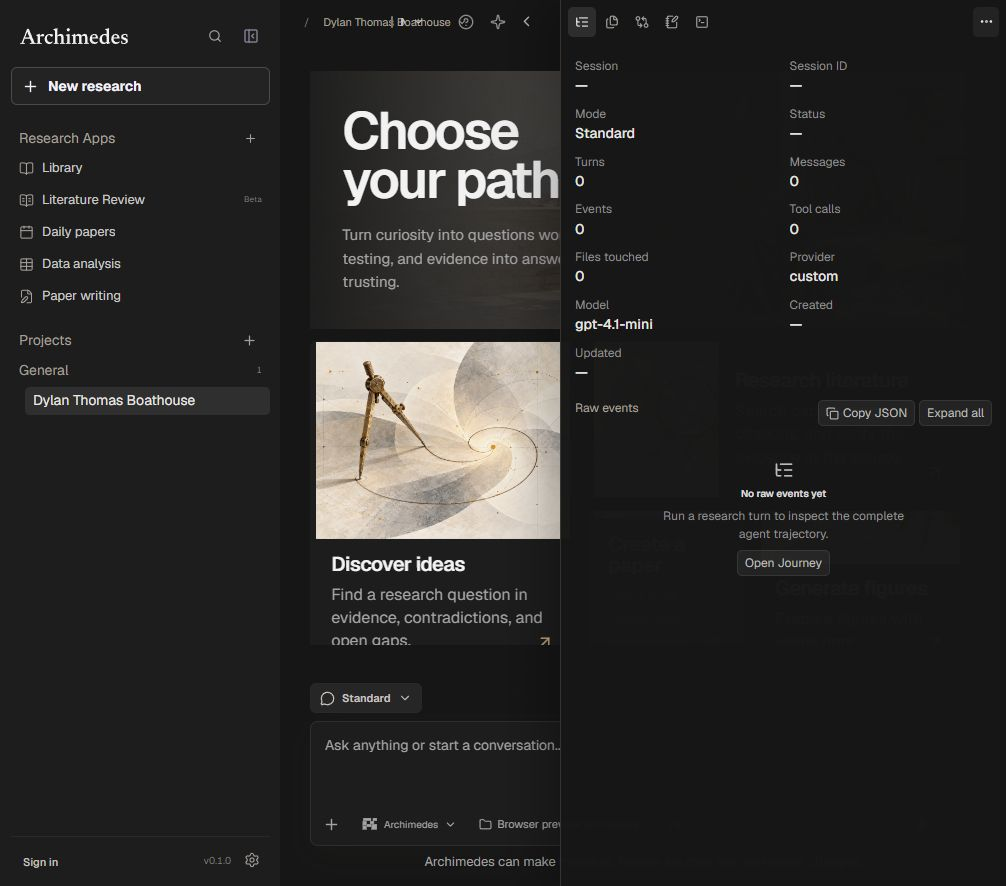
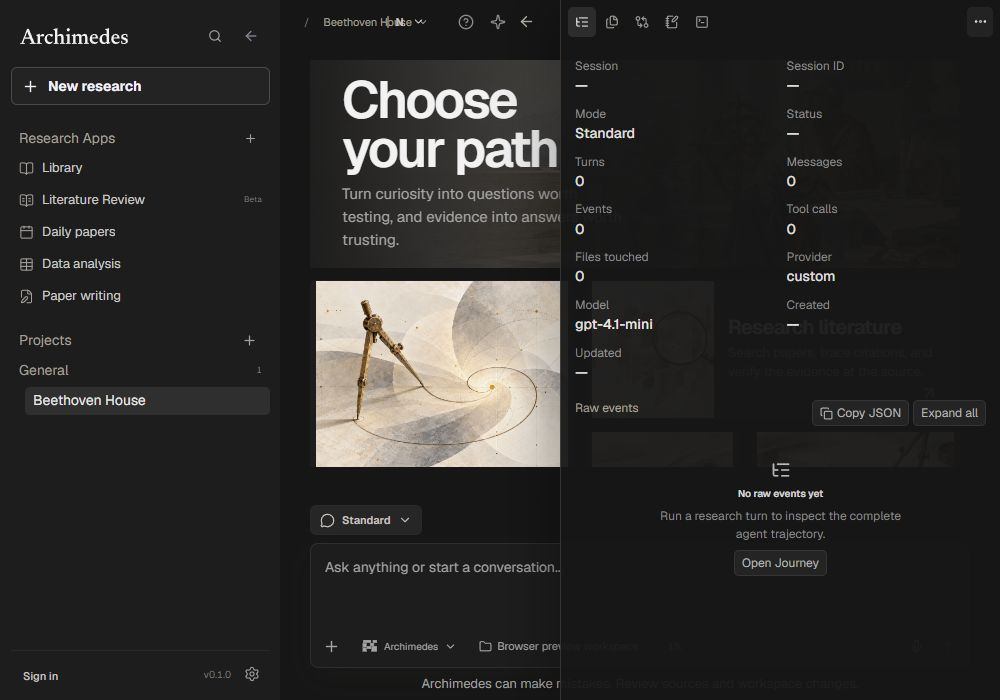
feat(sidebar): use arrow glyphs for panel toggles

diff --git a/src/PaperWritingView.tsx b/src/PaperWritingView.tsx
@@ -1,5 +1,5 @@
 import { useCallback, useEffect, useId, useMemo, useRef, useState } from "react";
-import { AlertTriangle, ArrowDown, ArrowUp, Check, ChevronDown, ChevronRight, CircleDot, Cloud, FileCode2, FileImage, FilePlus2, FileText, Folder, FolderOpen, FolderPlus, FolderUp, LoaderCircle, MessageCircle, PanelLeftClose, PanelLeftOpen, Play, RefreshCw, Search, X } from "lucide-react";
+import { AlertTriangle, ArrowDown, ArrowLeft, ArrowRight, ArrowUp, Check, ChevronDown, ChevronRight, CircleDot, Cloud, FileCode2, FileImage, FilePlus2, FileText, Folder, FolderOpen, FolderPlus, FolderUp, LoaderCircle, MessageCircle, Play, RefreshCw, Search, X } from "lucide-react";
 import { useUISettings } from "./i18n";
 import SharedNoteEditor from "./SharedNoteEditor";
 import PaperTemplateLibrary from "./PaperTemplateLibrary";
@@ -506,7 +506,7 @@ export default function PaperWritingView({ bridge, workspace, projectId, openReq
   return <div className="paper-writing-page" data-surface="writing">
     <div className={browserCollapsed && widePanes ? "paper-writing-workspace browser-collapsed" : "paper-writing-workspace"} ref={workspaceRef} style={paneStyle}>
       <aside className="paper-source-browser"><div className="paper-browser-title"><FolderOpen size={14} /><strong>{projectLabel}</strong>{activeProject && <div className="paper-browser-actions"><button onClick={() => { setCreateKind("file"); setCreateName("section.tex"); }} aria-label="New LaTeX file"><FilePlus2 size={14} /></button><button onClick={() => { setCreateKind("folder"); setCreateName("figures"); }} aria-label="New folder"><FolderPlus size={14} /></button></div>}</div><label className="paper-main-document">Main document<select value={mainPath} disabled={!activeProject} onChange={(event) => { setMainPath(event.target.value); void openFile(event.target.value); }}>{!activeProject && <option value="">Choose a project first</option>}{mainPath && <option value={mainPath}>{mainPath.split("/").at(-1)}</option>}</select></label><div className="paper-tree-scroll">{activeProject ? tree.entries.map((entry) => <TreeNode key={entry.path} entry={entry} depth={0} selected={file?.path || ""} activeDirectory={activeDirectory} expanded={expanded} loading={loading} onToggle={toggleDirectory} onLoad={(path) => void loadDirectory(path)} onOpen={(path) => void openFile(path)} />) : <StateView compact className="paper-project-placeholder" icon={<FolderOpen size={20} />} title="No project selected" description="Start a blank paper or import an existing LaTeX folder." />}</div><div className="paper-pane-resizer" role="separator" aria-orientation="vertical" aria-label="Resize file browser" title="Drag to resize · double-click to reset" aria-valuemin={BROWSER_MIN_WIDTH} aria-valuemax={BROWSER_MAX_WIDTH} aria-valuenow={Math.round(browserWidth)} tabIndex={0} onPointerDown={(event) => beginPaneResize("browser", event)} onPointerMove={movePaneResize} onPointerUp={endPaneResize} onPointerCancel={endPaneResize} onDoubleClick={() => setBrowserWidth(BROWSER_DEFAULT_WIDTH)} onKeyDown={(event) => handlePaneResizeKey("browser", event)} /></aside>
-      <section className="latex-editor-pane" onKeyDown={handleSourceKey}><div className="paper-pane-toolbar"><button className="paper-browser-toggle" onClick={() => setBrowserCollapsed((collapsed) => !collapsed)} title={browserCollapsed ? "Show file browser" : "Hide file browser"} aria-label={browserCollapsed ? "Show file browser" : "Hide file browser"} aria-pressed={!browserCollapsed}>{browserCollapsed ? <PanelLeftOpen size={13} /> : <PanelLeftClose size={13} />}</button><FileCode2 size={14} /><strong>{file?.name || "No source selected"}</strong><button className={searchOpen ? "paper-pane-action icon active" : "paper-pane-action icon"} disabled={!file} onClick={() => searchOpen ? closeSearch() : openSearch()} title={`${t("Search source")} (Ctrl/Cmd+F)`} aria-label={t("Search source")} aria-expanded={searchOpen} aria-controls={searchId}><Search size={14} /></button><span className={`paper-save-state ${saveState}`}>{saveState === "saving" ? <LoaderCircle className="spin" size={11} /> : saveState === "saved" ? <Check size={11} /> : <CircleDot size={11} />}{saveState === "saving" ? "Saving" : saveState === "saved" ? "Saved" : "Unsaved"}</span><button className={coedit ? "paper-pane-action active" : "paper-pane-action"} disabled={!file || !projectId} onClick={() => { setCoedit((value) => !value); setSearchOpen(false); }} title="Co-edit this source with project members"><Cloud size={13} /><span>{coedit ? "Co-editing" : "Co-edit"}</span></button></div>
+      <section className="latex-editor-pane" onKeyDown={handleSourceKey}><div className="paper-pane-toolbar"><button className="paper-browser-toggle" onClick={() => setBrowserCollapsed((collapsed) => !collapsed)} title={browserCollapsed ? "Show file browser" : "Hide file browser"} aria-label={browserCollapsed ? "Show file browser" : "Hide file browser"} aria-pressed={!browserCollapsed}>{browserCollapsed ? <ArrowRight size={13} /> : <ArrowLeft size={13} />}</button><FileCode2 size={14} /><strong>{file?.name || "No source selected"}</strong><button className={searchOpen ? "paper-pane-action icon active" : "paper-pane-action icon"} disabled={!file} onClick={() => searchOpen ? closeSearch() : openSearch()} title={`${t("Search source")} (Ctrl/Cmd+F)`} aria-label={t("Search source")} aria-expanded={searchOpen} aria-controls={searchId}><Search size={14} /></button><span className={`paper-save-state ${saveState}`}>{saveState === "saving" ? <LoaderCircle className="spin" size={11} /> : saveState === "saved" ? <Check size={11} /> : <CircleDot size={11} />}{saveState === "saving" ? "Saving" : saveState === "saved" ? "Saved" : "Unsaved"}</span><button className={coedit ? "paper-pane-action active" : "paper-pane-action"} disabled={!file || !projectId} onClick={() => { setCoedit((value) => !value); setSearchOpen(false); }} title="Co-edit this source with project members"><Cloud size={13} /><span>{coedit ? "Co-editing" : "Co-edit"}</span></button></div>
         {searchOpen && file && <div className="latex-source-search" id={searchId} role="search" aria-label={t("Search source")}>
           <Search size={14} aria-hidden="true" />
           <input ref={searchInputRef} type="text" value={searchQuery} onChange={(event) => changeSearch(event.target.value)} onKeyDown={(event) => {

diff --git a/src/App.tsx b/src/App.tsx
@@ -95,6 +95,8 @@ import ArchimedesWordmark from "./brand/ArchimedesWordmark";
 import {
   AlertTriangle,
   ArrowDown,
+  ArrowLeft,
+  ArrowRight,
   ArrowUp,
   BookOpen,
   BookOpenCheck,
@@ -102,8 +104,6 @@ import {
   Check,
   ChevronDown,
   ChevronLeft,
-  ChevronsLeft,
-  ChevronsRight,
   ChevronRight,
   CircleDot,
   CircleHelp,
@@ -142,11 +142,7 @@ import {
   Minimize2,
   NotebookPen,
   Package,
-  PanelLeftClose,
-  PanelLeftOpen,
   PanelRight,
-  PanelRightClose,
-  PanelRightOpen,
   Play,
   Plus,
   Puzzle,
@@ -3592,7 +3588,7 @@ function App() {
     { id: "notes", group: t("Panels"), label: t("Notes"), icon: <NotebookPen size={15} />, run: () => openWorkbench("notes") },
     { id: "reveal-folder", group: t("System"), label: t("Show working folder"), detail: executionWorkspace, icon: <FolderOpen size={15} />, run: () => void desktopBridge.revealWorkspace?.(executionWorkspace).catch(() => undefined) },
     { id: "settings", group: t("System"), label: t("Settings"), shortcut: "Ctrl ,", icon: <Settings size={15} />, run: () => { setSettingsSection("general"); setSettingsOpen(true); } },
-    { id: "toggle-sidebar", group: t("System"), label: sidebarHidden ? t("Show sidebar") : t("Hide sidebar"), icon: <PanelLeftOpen size={15} />, run: () => setSidebarHidden((hidden) => !hidden) },
+    { id: "toggle-sidebar", group: t("System"), label: sidebarHidden ? t("Show sidebar") : t("Hide sidebar"), icon: sidebarHidden ? <ArrowRight size={15} /> : <ArrowLeft size={15} />, run: () => setSidebarHidden((hidden) => !hidden) },
   ];
 
   // Declarative view host for sidebar modules: the JSX per module is declared
@@ -3632,7 +3628,7 @@ function App() {
           <ArchimedesMark className="codex-brand-symbol" size={24} variant="small" />
           <ArchimedesWordmark className="codex-brand-wordmark" />
           <button className="sidebar-search-button" onClick={() => setPaletteOpen(true)} title={`${t("Search or run a command")} (Ctrl K)`} aria-label={t("Search or run a command")}><Search size={15} /></button>
-          <button className="sidebar-collapse-button" onClick={() => setSidebarHidden(true)} title={t("Hide sidebar")} aria-label={t("Hide sidebar")}><PanelLeftClose size={16} /></button>
+          <button className="sidebar-collapse-button" onClick={() => setSidebarHidden(true)} title={t("Hide sidebar")} aria-label={t("Hide sidebar")}><ArrowLeft size={16} /></button>
         </div>
 
         <button className="new-task-button" onClick={() => startNewTask()} title={t("New research task")} disabled={agentBusy}>
@@ -3695,7 +3691,7 @@ function App() {
 
       <section className={workbenchOpen ? "codex-main workbench-open" : "codex-main"} style={{ "--workbench-width": workbenchOpen ? `${workbenchWidth}px` : "0px" } as React.CSSProperties}>
         <header className="main-toolbar" data-ui="application-toolbar">
-          {!sidebarVisible && <button className="quiet-icon-button sidebar-restore-button" onClick={() => setSidebarHidden(false)} title={t("Show sidebar")} aria-label={t("Show sidebar")} aria-pressed={sidebarHidden}><PanelLeftOpen size={17} /></button>}
+          {!sidebarVisible && <button className="quiet-icon-button sidebar-restore-button" onClick={() => setSidebarHidden(false)} title={t("Show sidebar")} aria-label={t("Show sidebar")} aria-pressed={sidebarHidden}><ArrowRight size={17} /></button>}
           <SessionSwitcher
             project={activeProject}
             workspace={activeWorkspace}
@@ -3746,7 +3742,7 @@ function App() {
               {proactive.queuedCount > 0 && <span className="dock-badge" aria-label={`${proactive.queuedCount} queued suggestions`}>{proactive.queuedCount > 9 ? "9+" : proactive.queuedCount}</span>}
             </button>
             <button className={workbenchOpen ? "quiet-icon-button workbench-toggle open" : "quiet-icon-button workbench-toggle"} onClick={toggleWorkbench} title={workbenchOpen ? `${t("Hide workbench")} (Ctrl+\`)` : `${t("Show workbench")} (Ctrl+\`)`} aria-label={workbenchOpen ? t("Hide workbench") : t("Show workbench")} aria-pressed={workbenchOpen}>
-              {workbenchOpen ? <ChevronLeft size={17} /> : <ChevronRight size={17} />}
+              {workbenchOpen ? <ArrowLeft size={17} /> : <ArrowRight size={17} />}
             </button>
           </div>
         </header>
@@ -5853,8 +5849,8 @@ function FilesView({ workspace, tree, openFiles, selectedPath, directoryRequest,
         {tabs}
         <div className="artifact-workbench-actions">
           {split && <div className="artifact-workbench-pane-toggles" role="group" aria-label="File panes">
-            <button className={filesListCollapsed ? "" : "active"} onClick={toggleFilesList} title={filesListCollapsed ? "Show file list" : "Collapse file list"} aria-label={filesListCollapsed ? "Show file list" : "Collapse file list"} aria-pressed={!filesListCollapsed}>{filesListCollapsed ? <ChevronsRight size={13} /> : <ChevronsLeft size={13} />}</button>
-            <button className={filesEditorCollapsed ? "" : "active"} onClick={toggleFilesEditor} title={filesEditorCollapsed ? "Show editor" : "Collapse editor"} aria-label={filesEditorCollapsed ? "Show editor" : "Collapse editor"} aria-pressed={!filesEditorCollapsed}>{filesEditorCollapsed ? <ChevronsLeft size={13} /> : <ChevronsRight size={13} />}</button>
+            <button className={filesListCollapsed ? "" : "active"} onClick={toggleFilesList} title={filesListCollapsed ? "Show file list" : "Collapse file list"} aria-label={filesListCollapsed ? "Show file list" : "Collapse file list"} aria-pressed={!filesListCollapsed}>{filesListCollapsed ? <ArrowRight size={13} /> : <ArrowLeft size={13} />}</button>
+            <button className={filesEditorCollapsed ? "" : "active"} onClick={toggleFilesEditor} title={filesEditorCollapsed ? "Show editor" : "Collapse editor"} aria-label={filesEditorCollapsed ? "Show editor" : "Collapse editor"} aria-pressed={!filesEditorCollapsed}>{filesEditorCollapsed ? <ArrowLeft size={13} /> : <ArrowRight size={13} />}</button>
           </div>}
           <button onClick={onRefresh} title="Refresh workspace files" aria-label="Refresh workspace files"><RefreshCw size={13} /></button>
           <button onClick={onNewFile} title="New file" aria-label="New file"><Plus size={14} /></button>

diff --git a/src/LibraryWorkspace.tsx b/src/LibraryWorkspace.tsx
@@ -1,5 +1,5 @@
 import { useCallback, useEffect, useMemo, useRef, useState, type ReactNode } from "react";
-import { BookOpen, ChevronDown, ChevronRight, Cloud, FilePen, FileText, Folder, FolderOpen, FolderPlus, Library, ListFilter, LoaderCircle, MoreHorizontal, PanelLeftClose, PanelLeftOpen, Pencil, Plus, Search, Star, Trash, X } from "lucide-react";
+import { ArrowLeft, ArrowRight, BookOpen, ChevronDown, ChevronRight, Cloud, FilePen, FileText, Folder, FolderOpen, FolderPlus, Library, ListFilter, LoaderCircle, MoreHorizontal, Pencil, Plus, Search, Star, Trash, X } from "lucide-react";
 import { useUISettings } from "./i18n";
 import { useConfirm } from "./ConfirmDialog";
 import { Dialog } from "./Dialog";
@@ -284,7 +284,7 @@ export default function LibraryWorkspace({ bridge, workspace, projectId, active,
 
   return <section className={`library-workspace${navigationOpen ? "" : " navigation-closed"}`} aria-label={t("Library workspace")}>
     <aside className="library-workspace-tree" aria-label={t("Library folders")}>
-      <header><strong>{t("Library")}</strong><div><button className="icon-button" onClick={() => setEditor("new")} title={t("New folder")} aria-label={t("New folder")}><FolderPlus size={16} /></button><button className="icon-button" onClick={() => setNavigationOpen(false)} title={t("Hide library folders")} aria-label={t("Hide library folders")}><PanelLeftClose size={15} /></button></div></header>
+      <header><strong>{t("Library")}</strong><div><button className="icon-button" onClick={() => setEditor("new")} title={t("New folder")} aria-label={t("New folder")}><FolderPlus size={16} /></button><button className="icon-button" onClick={() => setNavigationOpen(false)} title={t("Hide library folders")} aria-label={t("Hide library folders")}><ArrowLeft size={15} /></button></div></header>
       <label className="library-tree-search"><Search size={14} /><input value={query} onChange={(event) => setQuery(event.target.value)} aria-label={t("Search library")} placeholder={t("Search library…")} /></label>
       <div className="library-tree-scroll">
         <button className={`library-tree-row${!activeDocument && scope === null ? " active" : ""}`} onClick={() => browse(null)}><Library size={16} /><span>{t("Library overview")}</span></button>
@@ -311,7 +311,7 @@ export default function LibraryWorkspace({ bridge, workspace, projectId, active,
     </aside>
     <div className="library-workspace-content">
       <div className="library-workspace-tabs">
-        {!navigationOpen && <button className="icon-button library-show-folders" onClick={() => setNavigationOpen(true)} aria-label={t("Show library folders")} title={t("Show library folders")}><PanelLeftOpen size={16} /></button>}
+        {!navigationOpen && <button className="icon-button library-show-folders" onClick={() => setNavigationOpen(true)} aria-label={t("Show library folders")} title={t("Show library folders")}><ArrowRight size={16} /></button>}
         <button aria-pressed={!activeDocument} className={`library-document-tab${!activeDocument ? " active" : ""}`} onClick={() => { if (canNavigate()) setActiveDocument(null); }}><Library size={14} /><span>{t("Library")}</span></button>
         <div className="library-document-tabs" role="tablist" aria-label={t("Open documents")}>{documents.map((document) => {
           const key = libraryDocumentKey(document);

diff --git a/src/LibraryView.tsx b/src/LibraryView.tsx
@@ -41,6 +41,7 @@ import { fingerprintFor } from "./proactive-engine";
 import { emitProactiveSignal } from "./proactive-signals";
 import {
   ArrowLeft,
+  ArrowRight,
   ArrowUp,
   Bookmark,
   BookOpen,
@@ -71,8 +72,6 @@ import {
   LoaderCircle,
   MessageCircleReply,
   Minus,
-  PanelRightClose,
-  PanelRightOpen,
   Pencil,
   Plus,
   RefreshCw,
@@ -1064,7 +1063,7 @@ function PaperReadingWorkbench({ paper, library, onBack, onUpdate, bridge, works
       <div className="reader-header-actions">
         {publicPaperRecordUrl(paper) && <a className="reader-icon-button" href={publicPaperRecordUrl(paper)} target="_blank" rel="noreferrer" title={t("Open source")}><ExternalLink size={15} /></a>}
         <button className="reader-icon-button" title={paper.starred ? t("Unstar paper") : t("Star paper")} onClick={() => void onUpdate({ starred: !paper.starred })}><Star size={15} fill={paper.starred ? "currentColor" : "none"} /></button>
-        {readerView !== "review" && readerView !== "canvas" && <button className={chatOpen ? "reader-ask-button active" : "reader-ask-button"} title={t("Ask Archimedes")} onClick={() => setChatOpen((value) => !value)}>{chatOpen ? <PanelRightClose size={15} /> : <PanelRightOpen size={15} />}<span>{t("Ask AI")}</span></button>}
+        {readerView !== "review" && readerView !== "canvas" && <button className={chatOpen ? "reader-ask-button active" : "reader-ask-button"} title={t("Ask Archimedes")} aria-expanded={chatOpen} onClick={() => setChatOpen((value) => !value)}>{chatOpen ? <ArrowLeft size={15} /> : <ArrowRight size={15} />}<span>{t("Ask AI")}</span></button>}
       </div>
     </header>
     <div className="paper-reader-layout" style={chatOpen ? { "--paper-chat-width": `${chatWidth}px` } as React.CSSProperties : undefined}>

diff --git a/src/research-graph/ResearchGraphPanel.tsx b/src/research-graph/ResearchGraphPanel.tsx
@@ -1,5 +1,5 @@
 import { useEffect, useMemo, useState } from "react";
-import { ArrowUpRight, History, Maximize2, Minimize2, PanelRight, Pin, RefreshCw, X } from "lucide-react";
+import { ArrowLeft, ArrowRight, ArrowUpRight, History, Maximize2, Minimize2, Pin, RefreshCw, X } from "lucide-react";
 import { useUISettings } from "../i18n";
 import { Dialog } from "../Dialog";
 import { layoutLineage } from "./graphLayout";
@@ -262,7 +262,7 @@ export default function ResearchGraphPanel({
       aria-pressed={pinned}
       disabled={!hasThread && !pinned}
     ><Pin size={12} /></button>}
-    <button className={inspectorOpen ? "agent-path-icon on" : "agent-path-icon"} onClick={() => setInspectorOpen(value => !value)} aria-label={t(inspectorOpen ? "Hide node details" : "Show node details")} title={t(inspectorOpen ? "Hide node details" : "Show node details")} aria-pressed={inspectorOpen}><PanelRight size={13} /></button>
+    <button className={inspectorOpen ? "agent-path-icon on" : "agent-path-icon"} onClick={() => setInspectorOpen(value => !value)} aria-label={t(inspectorOpen ? "Hide node details" : "Show node details")} title={t(inspectorOpen ? "Hide node details" : "Show node details")} aria-pressed={inspectorOpen}>{inspectorOpen ? <ArrowLeft size={13} /> : <ArrowRight size={13} />}</button>
     {retractedCount > 0 && <button
       className={showHistory ? "agent-path-icon on" : "agent-path-icon"}
       onClick={() => setShowHistory((value) => !value)}

diff --git a/docs/sidebar-workbench-arrows.md b/docs/sidebar-workbench-arrows.md
@@ -1,13 +1,19 @@
-# Sidebar workbench arrows
+# Minimal panel arrows
 
-The sidebar workbench toggle uses a simple directional chevron: right to open
-the workbench, left to collapse it. Its accessible label, tooltip, and keyboard
-shortcut remain unchanged.
+Panel visibility controls use single directional arrows instead of panel
+glyphs or chevrons. Opening/showing uses a right arrow; hiding/collapsing uses a
+left arrow. Accessible labels and existing tooltips remain in place.
+
+This is applied to the sidebar, workbench, Files split panes, Library folders,
+the LaTeX file browser, the paper assistant, and Research Graph node details.
+Feature icons such as Research Path and Proactive Agent, tree disclosures, and
+the standard full-screen/restore icons are unchanged.
 
 ## Screenshots
 
-Captured in the browser preview at the same viewport and theme:
+Browser preview captures:
 
 - Before: `docs/assets/sidebar-workbench-arrows/before-workbench-toggle-closed.jpeg`
-- After, closed: `docs/assets/sidebar-workbench-arrows/after-workbench-toggle-closed.jpeg`
-- After, open: `docs/assets/sidebar-workbench-arrows/after-workbench-toggle-open.jpeg`
+- After, workbench closed: `docs/assets/sidebar-workbench-arrows/after-workbench-toggle-closed.jpeg`
+- After, workbench open: `docs/assets/sidebar-workbench-arrows/after-workbench-toggle-open.jpeg`
+- After, sidebar collapsed: `docs/assets/sidebar-workbench-arrows/after-sidebar-collapsed.jpeg`
